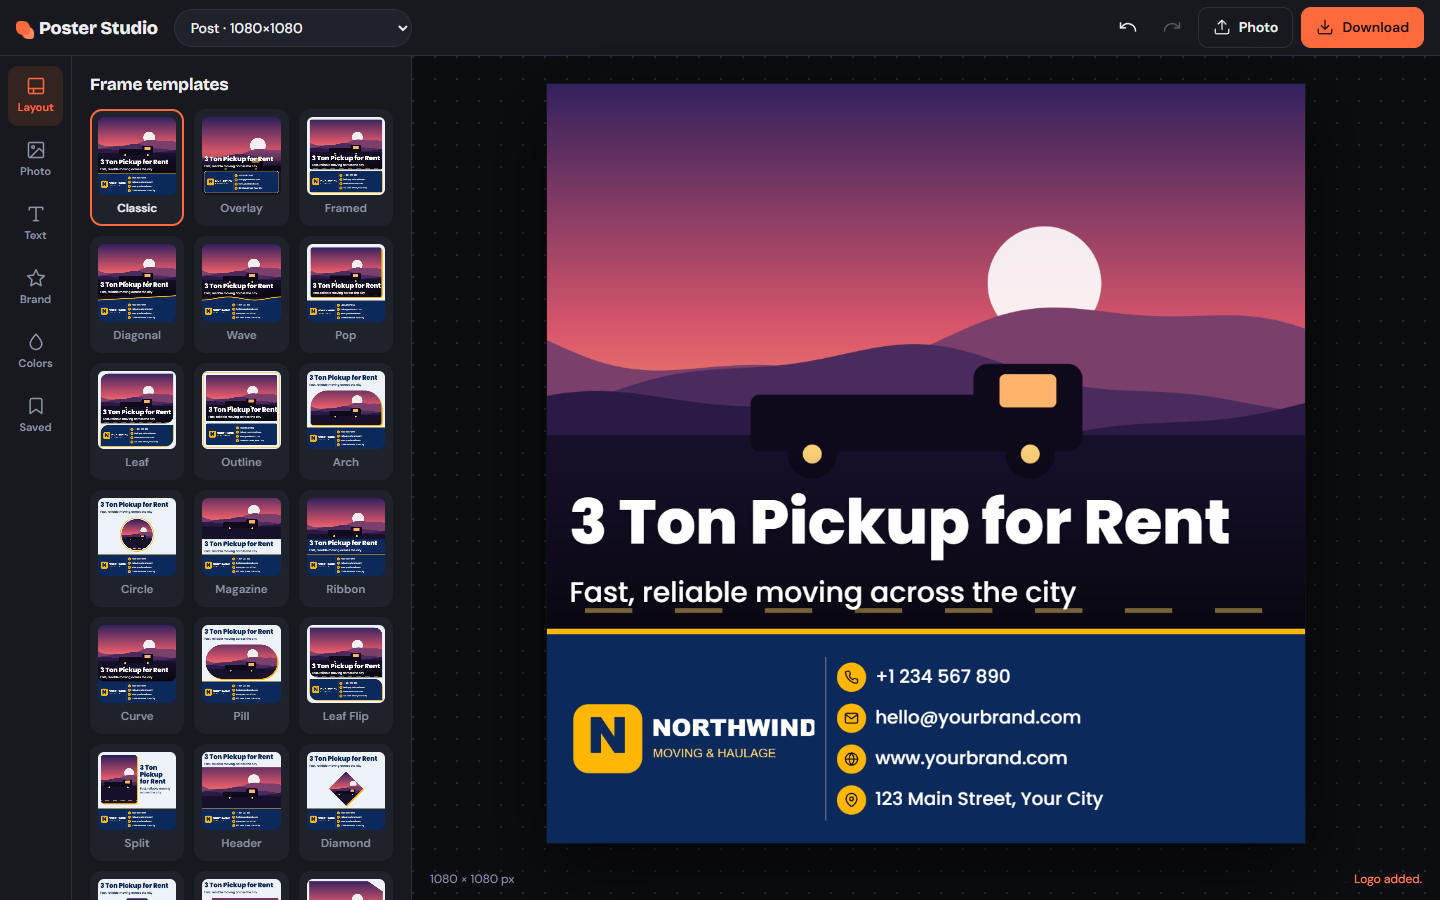
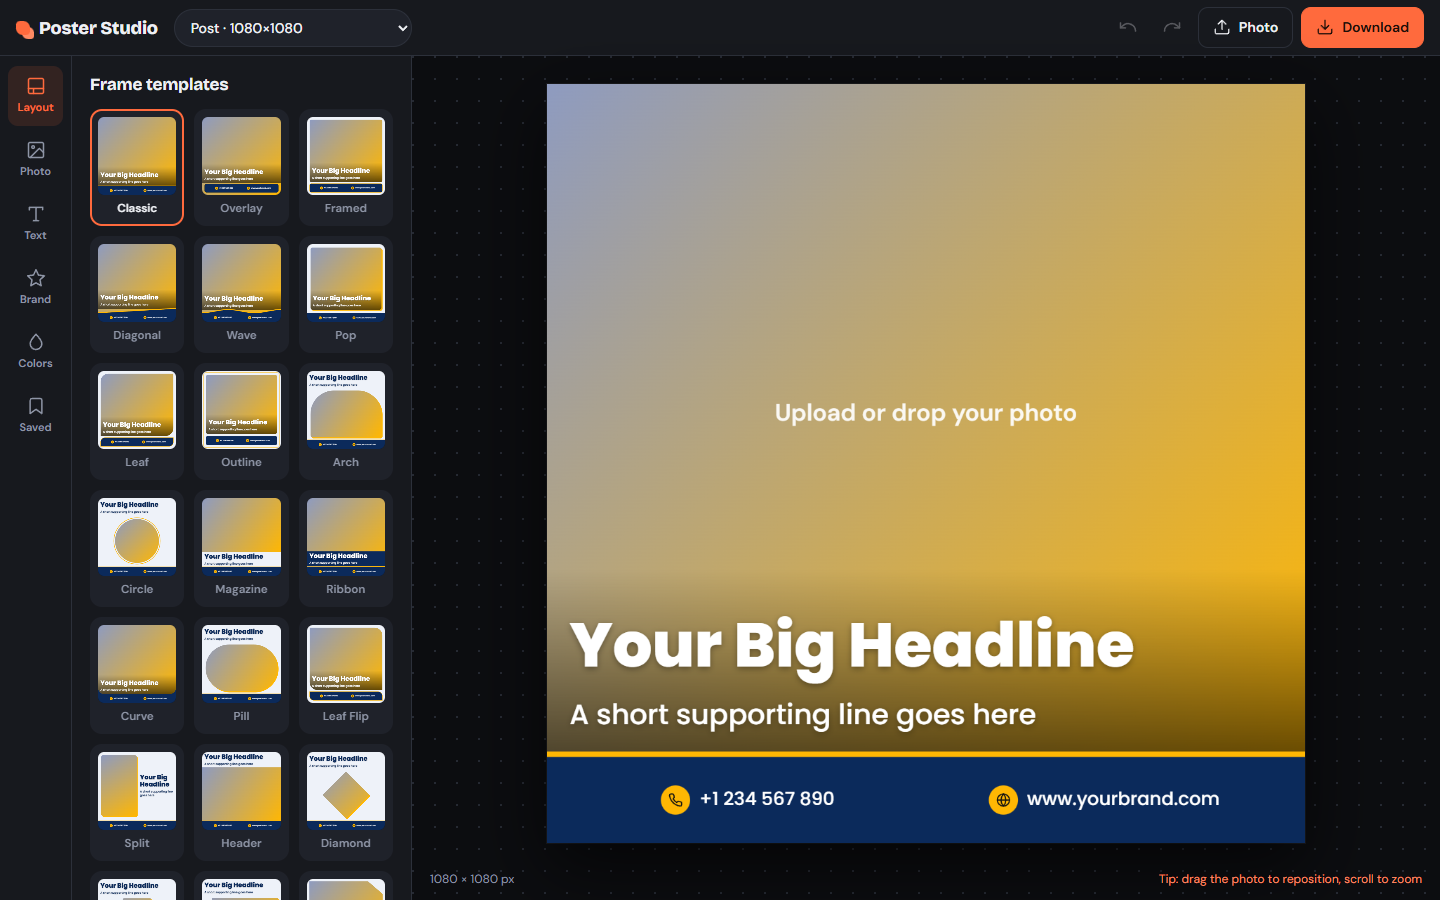
Update README and app.js, add new images, and remove outdated screenshots

diff --git a/app.js b/app.js
@@ -28,9 +28,7 @@ const DEFAULTS = {
   logo: { src: '', size: 120, placement: 'bar-left' },
   contacts: [
     { type: 'phone', value: '+1 234 567 890', on: true },
-    { type: 'mail', value: 'hello@yourbrand.com', on: true },
-    { type: 'web', value: 'www.yourbrand.com', on: true },
-    { type: 'pin', value: '123 Main Street, Your City', on: true }
+    { type: 'web', value: 'www.yourbrand.com', on: true }
   ],
   contactSize: 26, cols: 0, iconStyle: 'circle'
 };

diff --git a/README.md b/README.md
@@ -4,12 +4,14 @@
 
 It runs entirely in your browser. There is nothing to install, no account to create, no watermark, and your images never leave your computer.
 
+### 👉 [Try the live app: posterstudioapp.vercel.app](https://posterstudioapp.vercel.app/)
+
 ![MIT License](https://img.shields.io/badge/license-MIT-blue)
 ![Built with](https://img.shields.io/badge/built%20with-HTML%20%7C%20CSS%20%7C%20JavaScript-orange)
 ![No dependencies](https://img.shields.io/badge/dependencies-none-brightgreen)
 ![Works offline](https://img.shields.io/badge/runs-100%25%20in%20your%20browser-informational)
 
-![Poster Studio editor: choose a frame template, upload a photo and see the poster update live](docs/screenshots/01-editor-overview.png)
+![Poster Studio editor with the default Classic frame, default headline and a contact bar showing a phone number and website](docs/screenshots/01-editor-overview.png)
 
 ---
 
@@ -17,6 +19,7 @@ It runs entirely in your browser. There is nothing to install, no account to cre
 
 - [Why Poster Studio?](#why-poster-studio)
 - [Features](#features)
+- [Live demo](https://posterstudioapp.vercel.app/)
 - [Quick start](#quick-start)
 - [How to make your first poster](#how-to-make-your-first-poster)
 - [Frame template gallery](#frame-template-gallery-26-layouts)
@@ -72,14 +75,18 @@ Typical uses: _"3 Ton Pickup for Rent"_ ads, product promotions, sale announceme
 
 ## Quick start
 
-### Option 1: just open it
+### Option 1: use it online
+
+Open **[posterstudioapp.vercel.app](https://posterstudioapp.vercel.app/)**. Nothing to download or sign up for.
+
+### Option 2: run it on your computer
 
 1. Download or clone this project.
 2. Double-click **`index.html`**.
 
 That is all. It opens in your default browser and works straight away.
 
-### Option 2: run a tiny local server (optional)
+### Option 3: run a tiny local server (optional)
 
 Handy if you prefer `http://localhost`:
 
@@ -114,17 +121,19 @@ The first four steps take about a minute. After that, your logo and contact deta
 
 ## Frame template gallery (26 layouts)
 
-Every layout below is a real export from Poster Studio, using one sample photo and a different color theme for each. Every one of them can be re-colored, resized and re-styled.
+Every layout below is a real export from Poster Studio with its **default settings**: the default color theme, headline and contact bar, and an empty photo placeholder. Add your own photo, logo and colors and each one becomes yours.
 
-|                                                                                                                                               |                                                                                                                                                  |                                                                                                                                            |                                                                                                                                 |
-| :-------------------------------------------------------------------------------------------------------------------------------------------: | :----------------------------------------------------------------------------------------------------------------------------------------------: | :----------------------------------------------------------------------------------------------------------------------------------------: | :-----------------------------------------------------------------------------------------------------------------------------: |
-| <img src="docs/posters/classic.jpg" width="220" alt="Classic poster layout with photo on top and a contact bar at the bottom"><br>**Classic** | <img src="docs/posters/overlay.jpg" width="220" alt="Overlay poster layout with a floating contact card over a full-bleed photo"><br>**Overlay** |  <img src="docs/posters/framed.jpg" width="220" alt="Framed poster layout with a rounded photo and card-style contact bar"><br>**Framed**  |    <img src="docs/posters/diagonal.jpg" width="220" alt="Diagonal poster layout with a slanted contact bar"><br>**Diagonal**    |
-|                <img src="docs/posters/wave.jpg" width="220" alt="Wave poster layout with a wavy contact bar edge"><br>**Wave**                |          <img src="docs/posters/pop.jpg" width="220" alt="Pop poster layout with an offset accent shadow behind the photo"><br>**Pop**           |              <img src="docs/posters/leaf.jpg" width="220" alt="Leaf poster layout with diagonal rounded corners"><br>**Leaf**              | <img src="docs/posters/circle.jpg" width="220" alt="Circle poster layout with a round photo and headline on top"><br>**Circle** |
-|                <img src="docs/posters/arch.jpg" width="220" alt="Arch poster layout with an arched photo window"><br>**Arch**                 |    <img src="docs/posters/magazine.jpg" width="220" alt="Magazine poster layout with the headline below a full-width photo"><br>**Magazine**     | <img src="docs/posters/split.jpg" width="220" alt="Split poster layout with the photo on the left and headline on the right"><br>**Split** | <img src="docs/posters/ribbon.jpg" width="220" alt="Ribbon poster layout with a solid band behind the headline"><br>**Ribbon**  |
-|        <img src="docs/posters/duotone.jpg" width="220" alt="Duotone poster layout with a two-tone color-graded photo"><br>**Duotone**         |             <img src="docs/posters/zigzag.jpg" width="220" alt="Zigzag poster layout with a zigzag contact bar edge"><br>**Zigzag**              |         <img src="docs/posters/header.jpg" width="220" alt="Header poster layout with the headline above the photo"><br>**Header**         |     <img src="docs/posters/hexagon.jpg" width="220" alt="Hexagon poster layout with a hexagon-shaped photo"><br>**Hexagon**     |
-|       <img src="docs/posters/stack.jpg" width="220" alt="Stack poster layout with layered offset cards behind the photo"><br>**Stack**        |               <img src="docs/posters/border.jpg" width="220" alt="Border poster layout with a thick colored frame"><br>**Border**                |   <img src="docs/posters/curve.jpg" width="220" alt="Curve poster layout with rounded photo corners melting into the bar"><br>**Curve**    |        <img src="docs/posters/slant.jpg" width="220" alt="Slant poster layout with a parallelogram photo"><br>**Slant**         |
+![The Layout tab lists all 26 frame templates with live thumbnails](docs/screenshots/02-layout-templates.png)
 
-Also available: **Outline**, **Pill**, **Leaf Flip**, **Diamond**, **Corner Cut** and **Slope Right**.
+| | | | |
+|:---:|:---:|:---:|:---:|
+| <img src="docs/posters/classic.jpg" width="220" alt="Classic poster layout: photo on top with a contact bar at the bottom"><br>**Classic** | <img src="docs/posters/overlay.jpg" width="220" alt="Overlay poster layout: floating contact card over a full-bleed photo"><br>**Overlay** | <img src="docs/posters/framed.jpg" width="220" alt="Framed poster layout: rounded photo with a card-style contact bar"><br>**Framed** | <img src="docs/posters/diagonal.jpg" width="220" alt="Diagonal poster layout: slanted contact bar"><br>**Diagonal** |
+| <img src="docs/posters/wave.jpg" width="220" alt="Wave poster layout: wavy contact bar edge"><br>**Wave** | <img src="docs/posters/pop.jpg" width="220" alt="Pop poster layout: offset accent shadow behind the photo"><br>**Pop** | <img src="docs/posters/leaf.jpg" width="220" alt="Leaf poster layout: diagonal rounded corners"><br>**Leaf** | <img src="docs/posters/outline.jpg" width="220" alt="Outline poster layout: accent keyline around the whole poster"><br>**Outline** |
+| <img src="docs/posters/arch.jpg" width="220" alt="Arch poster layout: arched photo window"><br>**Arch** | <img src="docs/posters/circle.jpg" width="220" alt="Circle poster layout: round photo with the headline above"><br>**Circle** | <img src="docs/posters/magazine.jpg" width="220" alt="Magazine poster layout: headline below a full-width photo"><br>**Magazine** | <img src="docs/posters/ribbon.jpg" width="220" alt="Ribbon poster layout: solid band behind the headline"><br>**Ribbon** |
+| <img src="docs/posters/curve.jpg" width="220" alt="Curve poster layout: rounded photo corners flowing into the bar"><br>**Curve** | <img src="docs/posters/pill.jpg" width="220" alt="Pill poster layout: capsule-shaped photo"><br>**Pill** | <img src="docs/posters/leafr.jpg" width="220" alt="Leaf Flip poster layout: mirrored diagonal rounded corners"><br>**Leaf Flip** | <img src="docs/posters/split.jpg" width="220" alt="Split poster layout: photo on the left and headline on the right"><br>**Split** |
+| <img src="docs/posters/header.jpg" width="220" alt="Header poster layout: headline above a full-width photo"><br>**Header** | <img src="docs/posters/diamond.jpg" width="220" alt="Diamond poster layout: diamond-shaped photo"><br>**Diamond** | <img src="docs/posters/hexagon.jpg" width="220" alt="Hexagon poster layout: hexagon-shaped photo"><br>**Hexagon** | <img src="docs/posters/slant.jpg" width="220" alt="Slant poster layout: parallelogram photo"><br>**Slant** |
+| <img src="docs/posters/cut.jpg" width="220" alt="Corner Cut poster layout: photo with a cut corner"><br>**Corner Cut** | <img src="docs/posters/stack.jpg" width="220" alt="Stack poster layout: layered offset cards behind the photo"><br>**Stack** | <img src="docs/posters/border.jpg" width="220" alt="Border poster layout: thick colored frame"><br>**Border** | <img src="docs/posters/duotone.jpg" width="220" alt="Duotone poster layout: two-tone color-graded photo"><br>**Duotone** |
+| <img src="docs/posters/diagonalr.jpg" width="220" alt="Slope Right poster layout: diagonal bar rising on the right"><br>**Slope Right** | <img src="docs/posters/zigzag.jpg" width="220" alt="Zigzag poster layout: zigzag contact bar edge"><br>**Zigzag** |  |  |
 
 ### Works for stories and tall formats too
 
@@ -140,7 +149,7 @@ The same frame adapts to any size, shown here at **1080×1920** (Instagram and F
 
 Open the **Text** tab to edit the **Headline** and **Subtitle** separately.
 
-![Text tab with headline styling, quick styles, fonts and effects](docs/screenshots/02-text-effects.png)
+![Text tab with headline styling, quick styles, fonts and effects](docs/screenshots/04-text-styling.png)
 
 **Quick styles (one click):** Clean · Soft shadow · Hard shadow · Neon glow · Outline · Highlight · Gradient
 
@@ -153,6 +162,8 @@ Open the **Text** tab to edit the **Headline** and **Subtitle** separately.
 - **Highlight box:** a colored label behind each line, with padding and rounded corners.
 - **Placement:** top, middle or bottom, with left, center or right alignment, plus an optional dark gradient behind the text so white text stays readable on bright photos.
 
+![Text tab effects: gradient fill, shadow or glow, outline, highlight box and placement](docs/screenshots/05-text-effects.png)
+
 **Fonts included:** Poppins, Montserrat, Roboto, Raleway, Oswald, Bebas Neue, Anton, Archivo Black, Playfair Display, Lora, Abril Fatface, Lobster, Pacifico, Dancing Script, Permanent Marker, Righteous, plus the system fonts Segoe UI, Arial, Georgia, Impact and Verdana.
 
 ---
@@ -161,7 +172,7 @@ Open the **Text** tab to edit the **Headline** and **Subtitle** separately.
 
 48 ready-made themes cover business blues, luxury golds, fresh greens, bold neons and soft pastels. Each theme sets the background, contact bar, accent, bar text and text-on-background colors together, so they always work well as a set.
 
-![Color themes tab showing a grid of 48 ready-made palettes](docs/screenshots/03-color-themes.png)
+![Color themes tab showing a grid of 48 ready-made palettes](docs/screenshots/07-color-themes.png)
 
 Want a custom look? Use the four color pickers under **Customize** to fine-tune the background, bar, accent and bar text. Headline and subtitle colors live in the **Text** tab.
 
@@ -171,7 +182,7 @@ Want a custom look? Use the four color pickers under **Customize** to fine-tune 
 
 This is the heart of the app: set it up **once** and it is remembered next time you open Poster Studio.
 
-![Brand tab with logo upload, placement options and an editable contact list](docs/screenshots/04-brand-contact-bar.png)
+![Brand tab with logo upload, placement options and an editable contact list](docs/screenshots/06-brand-contact-bar.png)
 
 **Logo**
 
@@ -181,6 +192,7 @@ This is the heart of the app: set it up **once** and it is remembered next time 
 
 **Contact bar**
 
+- The bar starts with two items, a **phone number** and a **website**. Press **+ Add contact item** to add more.
 - Six icon types: **Phone, Email, Website, Address, Handle (@), Instagram**.
 - Switch any item on or off, reorder it with the arrows, delete it, or add as many as you need.
 - Choose 1 to 4 columns (or Auto), text size, font and icon style (circle, plain or none).
@@ -190,7 +202,7 @@ This is the heart of the app: set it up **once** and it is remembered next time 
 
 ## Photo controls
 
-![Photo tab with upload, zoom and adjustment sliders](docs/screenshots/05-photo-controls.png)
+![Photo tab with upload, zoom and adjustment sliders](docs/screenshots/03-photo-controls.png)
 
 - **Drag** the photo on the preview to choose what is visible.
 - **Scroll** over the photo (or use the Zoom slider) to zoom from 1× to 5×.
@@ -222,11 +234,11 @@ Layouts scale proportionally, so a frame that looks good on a square post also w
 
 ## Saving, sharing and exporting
 
-![Saved tab with named designs, load, delete, export and import](docs/screenshots/06-saved-designs.png)
+![Saved tab with named designs, load, delete, export and import](docs/screenshots/08-saved-designs.png)
 
 **Downloading your poster**
 
-![Download menu with PNG and JPG options and a 1x or 2x size switch](docs/screenshots/07-download-menu.png)
+![Download menu with PNG and JPG options and a 1x or 2x size switch](docs/screenshots/09-download-menu.png)
 
 - Choose **PNG** (best quality) or **JPG** (smaller file).
 - Choose **1× size** or **2× sharp** for crisp results on high-resolution screens and in print.
@@ -239,6 +251,14 @@ Layouts scale proportionally, so a frame that looks good on a square post also w
 - Use the **Saved** tab to store named designs such as "Weekend sale" or "New listing", then load or delete them later.
 - **Export .json** creates a small template file you can back up or send to a teammate. **Import .json** loads it again.
 - Saved designs include everything _except the photo_, so a template stays small and reusable.
+
+---
+
+## Works on phones and tablets
+
+The editor adapts to small screens. The preview stays pinned at the top while you scroll through the controls below it.
+
+<img src="docs/screenshots/10-mobile.png" width="280" alt="Poster Studio on a phone: the preview stays at the top with the editor tabs underneath">
 
 ---
 
@@ -322,7 +342,6 @@ Created by **Mashal Huraira**.
 
 If Poster Studio saves you time, a star on the repository helps others find it.
 
-<sub>The sample photo and the "Northwind Moving & Haulage" brand shown in the screenshots are illustrative examples created for this README, not real businesses.</sub>
 
 <!--
 Suggested GitHub repository description:
